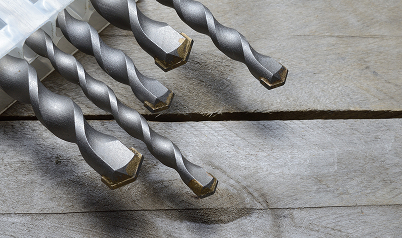
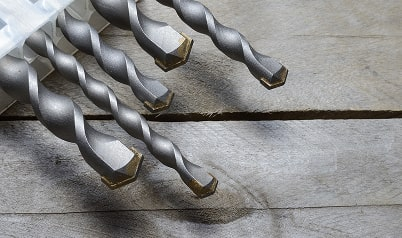
Add files via upload

diff --git a/js/common.js b/js/common.js
@@ -122,9 +122,9 @@ if ( $(this).scrollTop() > 0 && $menu.hasClass("default") ){
 
 	//слайдер
 
-	$('.slider').slick({
+	$('.slider-employees').slick({
 		arrows: true,
-		dots: true,
+		dots: false,
 		infinite: true,
 		touchThreshold: 1000,
 		slidesToShow: 1,
@@ -132,6 +132,15 @@ if ( $(this).scrollTop() > 0 && $menu.hasClass("default") ){
 		prevArrow: '<div class="slick-prev slick-arrow"><i class="fas fa-chevron-left"></i><div/>',
 		nextArrow: '<div class="slick-next slick-arrow"><i class="fas fa-chevron-right"></i><div/>',
 	});
+
+		//spinecrement
+$('.item-about__value').css('opacity', '1').spincrement({
+                    from: 0,
+                    thousandSeparator: " ",
+                    duration: 1000
+                });
+
+
 
 	$(".input-phone").mask("+7 (999) 999-99-99");
 
